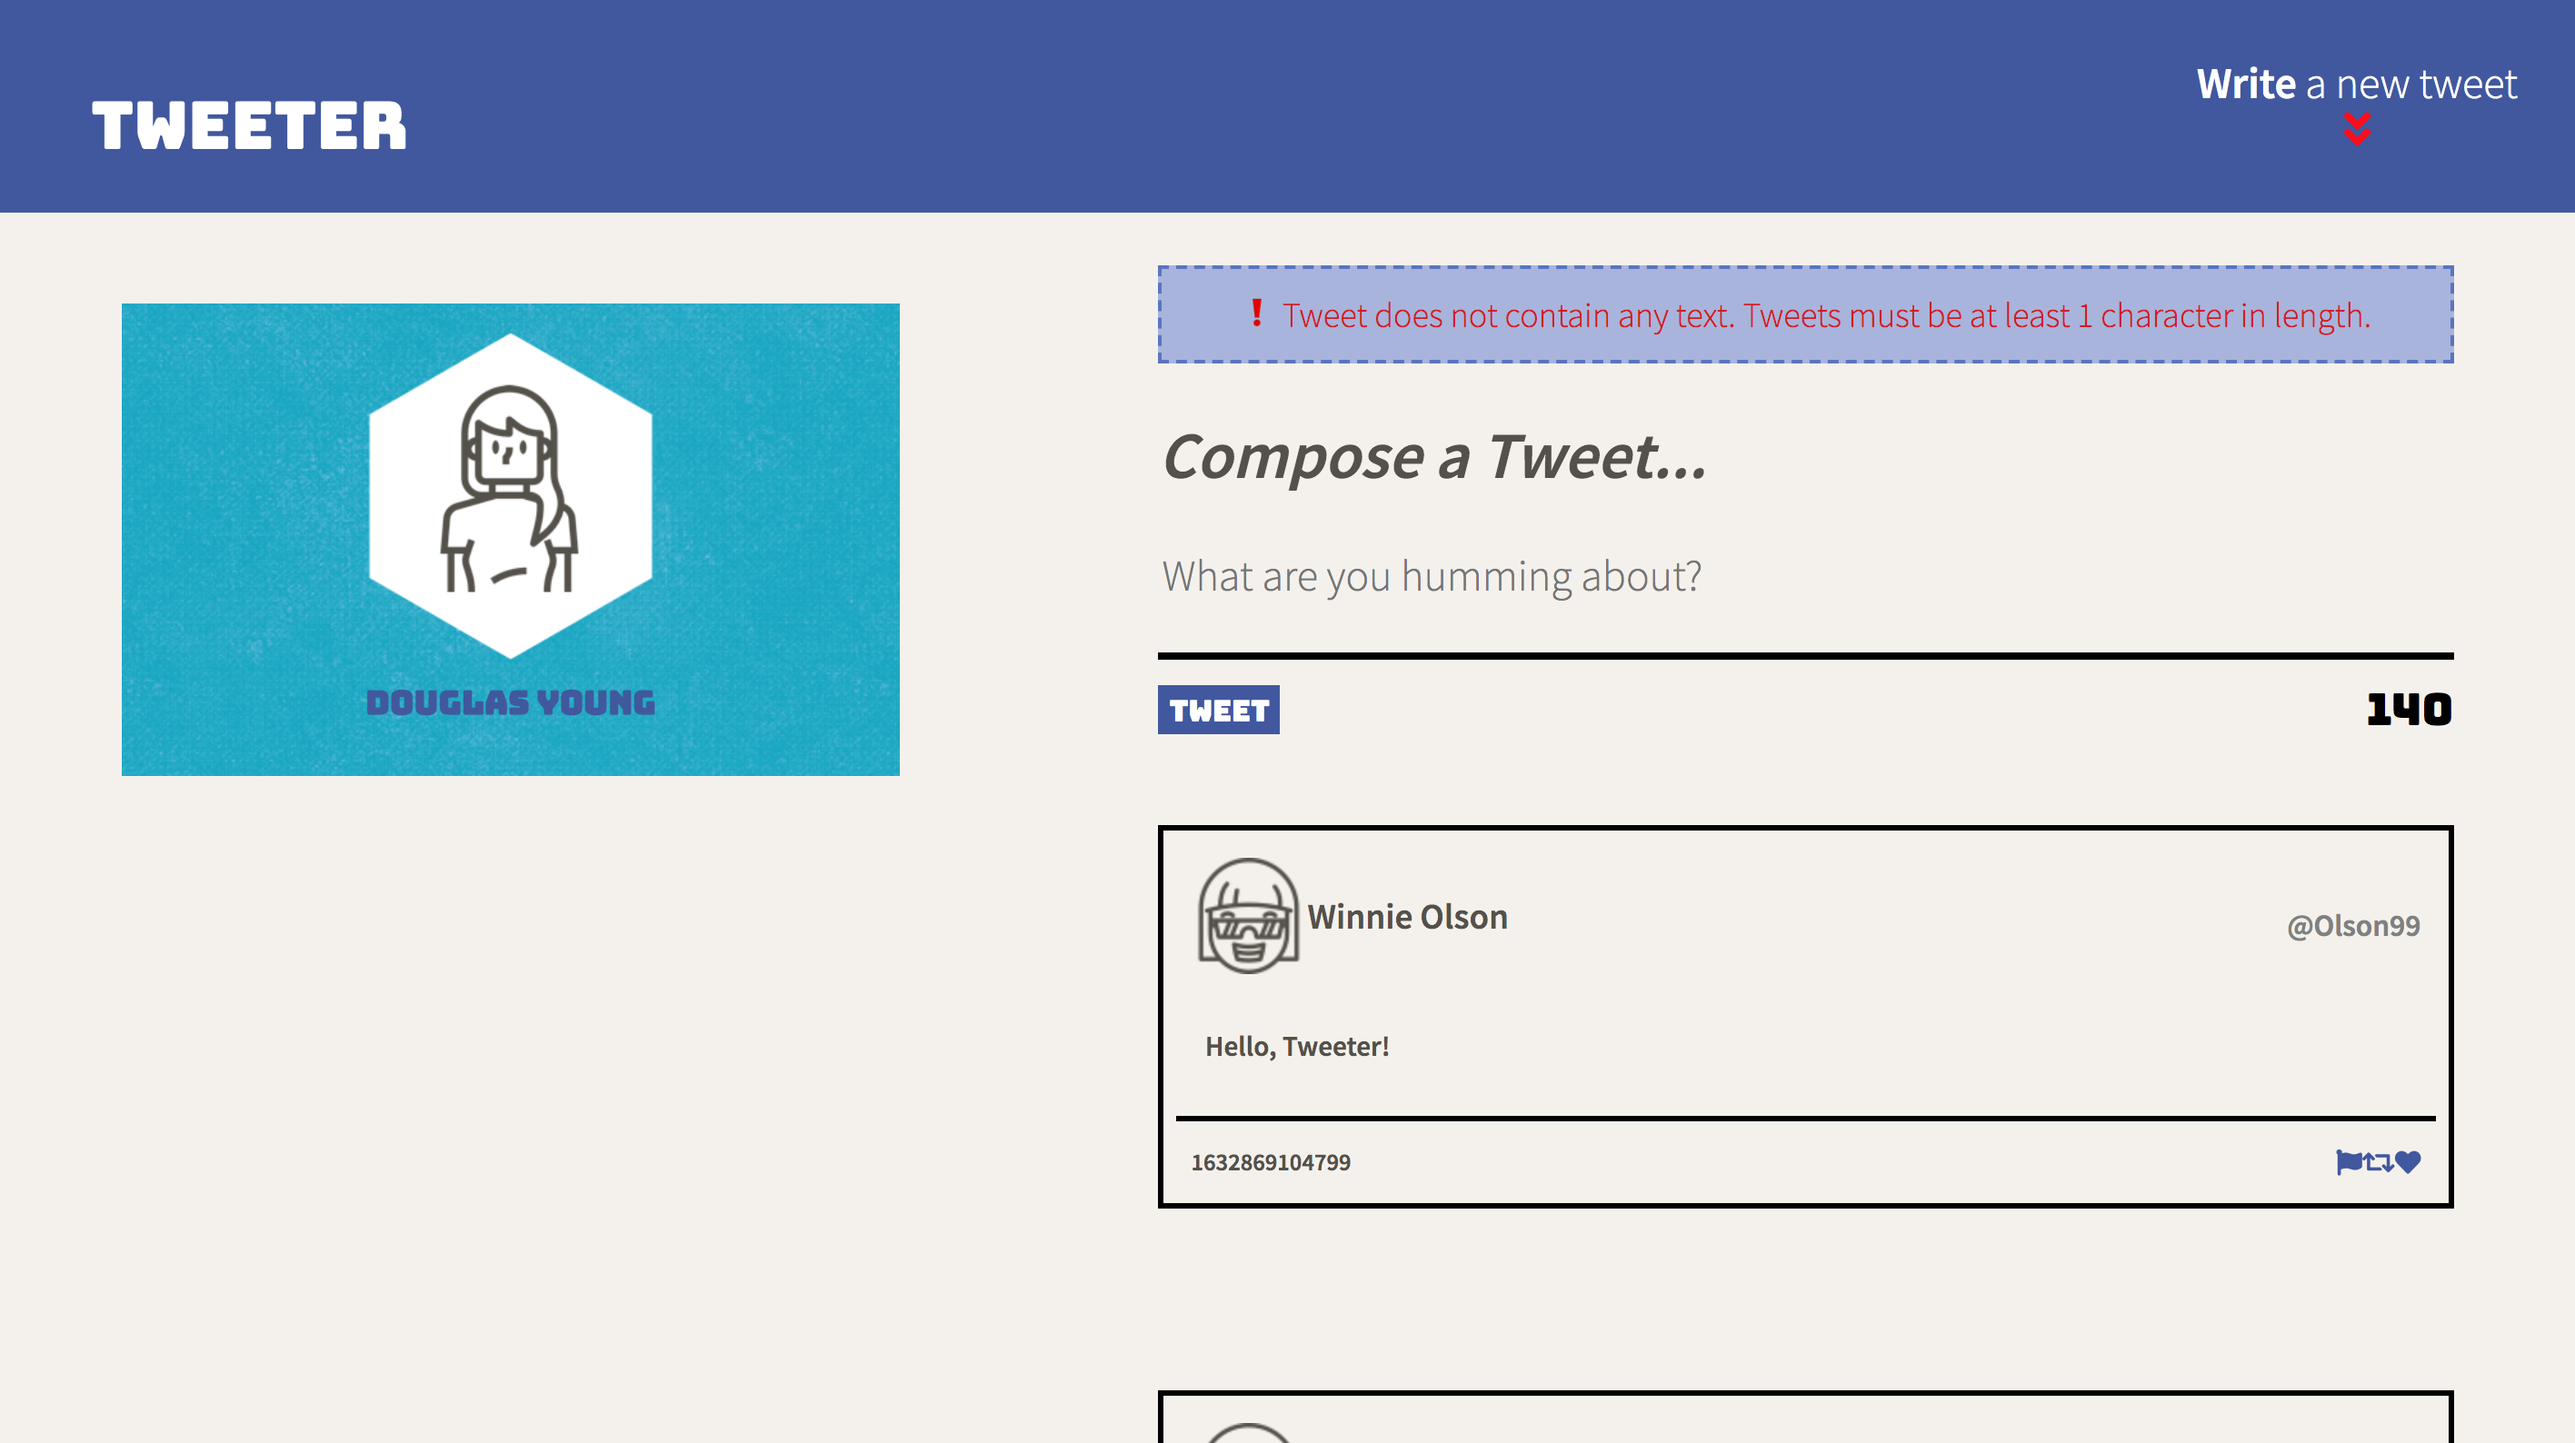
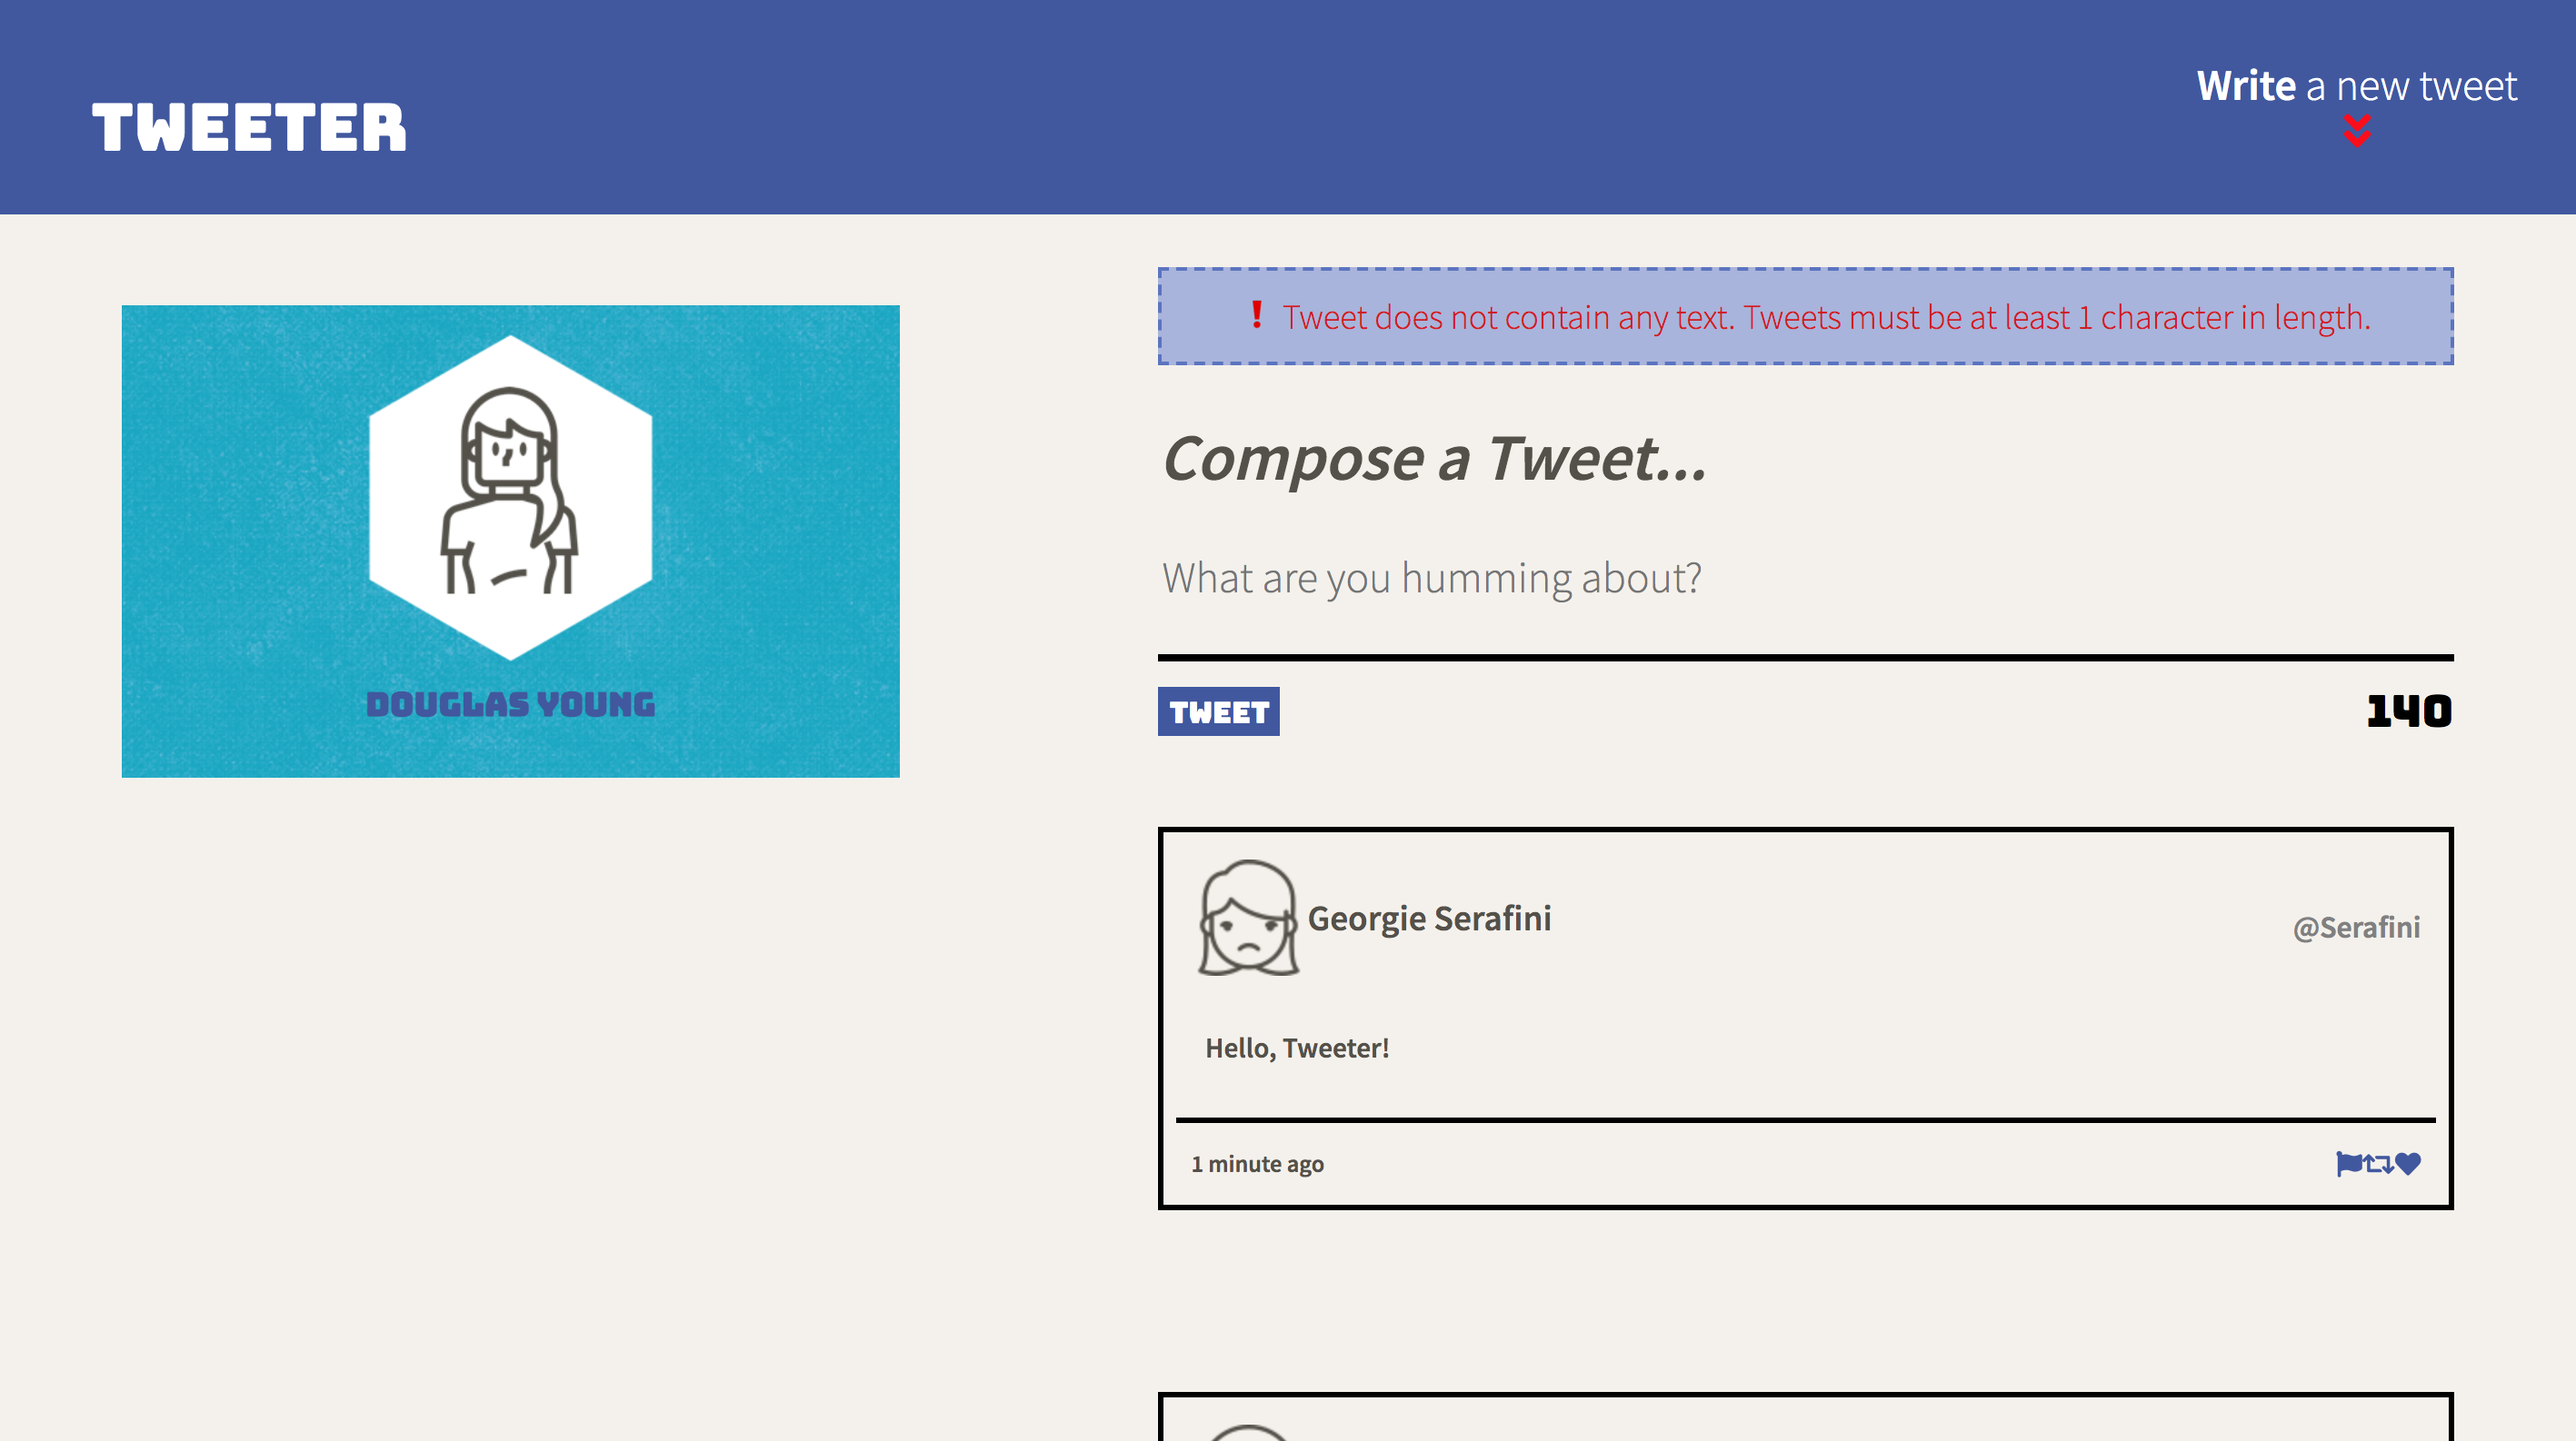
update time ago for tweets

diff --git a/public/scripts/client.js b/public/scripts/client.js
@@ -18,18 +18,19 @@ const escape = function (str) {
 };
 
 const createTweetElement = function(tweet) {
+  console.log(tweet.created_at)
   const $tweet = $(`
   <article>
           <header class="article-tweet-header">
             <div class="avatar-name">
-              <img src="${escape(tweet.user.avatars)}">
-              <h3>${escape(tweet.user.name)}</h3>
+              <img src="${(tweet.user.avatars)}">
+              <h3>${(tweet.user.name)}</h3>
             </div>
-            <h3 class="handle"><b>${escape(tweet.user.handle)}</b></h3>
+            <h3 class="handle"><b>${(tweet.user.handle)}</b></h3>
           </header>
           <p class="tweeted">${escape(tweet.content.text)}</p>
           <footer class="article-tweet-header">
-            <h5 class="date">${escape(tweet.created_at)}</h5>
+            <h5 class="date">${timeago.format(tweet.created_at + 590000)}</h5>
             <div class="icon-grouped">
               <i class="icons fas fa-flag"></i>
               <i class="icons fas fa-retweet"></i>

diff --git a/public/index.html b/public/index.html
@@ -8,6 +8,9 @@
     <!-- Meta Information -->
     <title>Tweeter - Home Page</title>
 
+    <!-- Timeago -->
+    <script src="https://cdnjs.cloudflare.com/ajax/libs/timeago.js/4.0.2/timeago.min.js" integrity="sha512-SVDh1zH5N9ChofSlNAK43lcNS7lWze6DTVx1JCXH1Tmno+0/1jMpdbR8YDgDUfcUrPp1xyE53G42GFrcM0CMVg==" crossorigin="anonymous" referrerpolicy="no-referrer"></script>
+
     <!-- Disable viewport zooming-->
     <meta name='viewport' content='width=device-width, initial-scale=1.0, maximum-scale=1.0' />
     
@@ -76,5 +79,6 @@
     <!-- App JS -->
     <script type="text/javascript" src="/scripts/client.js"></script>
     <script type="text/javascript" src="/scripts/composer-char-counter.js"></script>
+    <!-- <script src="dist/timeago.js" type="text/javascript"></script> -->
   </body>
 </html>
